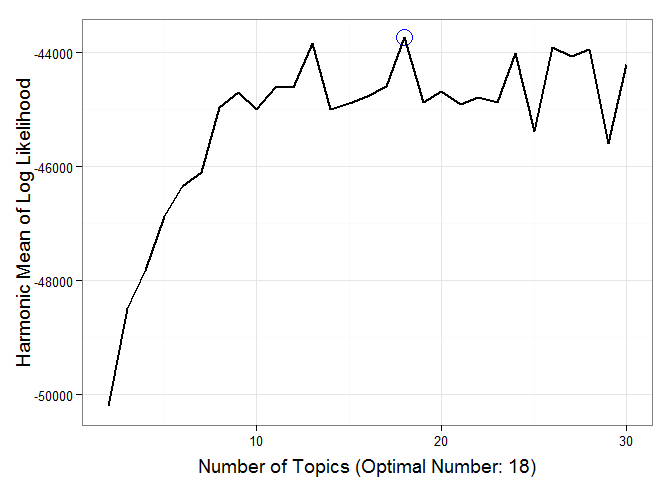
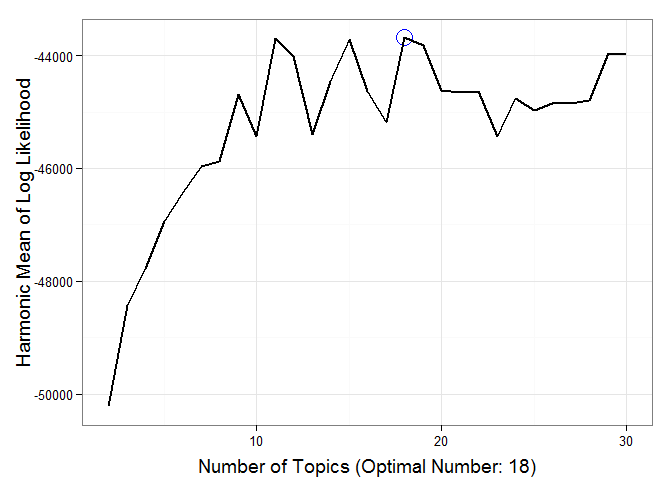
updated with updates to function

diff --git a/README.md b/README.md
@@ -352,7 +352,7 @@ The .R script for this demonstration can be downloaded from
     ))
 
     ## SHA-1 hash of file is 5ac52af21ce36dfe8f529b4fe77568ced9307cf0
-    ## SHA-1 hash of file is 81ded97c46b65cbbddd531ea9150088fccfc1b85
+    ## SHA-1 hash of file is df83e0293c60b009fdb06ac89a84af891c13bcb6
 
     data(presidential_debates_2012)
 
@@ -390,11 +390,11 @@ The plot below shows the harmonic mean of the log likelihoods against k
     k <- optimal_k(doc_term_mat, burnin = burnin, iter = iter, keep = keep)
 
     ## 
-    ## Grab a cup of coffee this is gonna take a while...
+    ## Grab a cup of coffee this could take a while...
 
-    ## 10 of 30 iterations (Time elapsed: .2 mins)
-    ## 20 of 30 iterations (Time elapsed: 1.1 mins)
-    ## 30 of 30 iterations (Time elapsed: 2.5 mins)
+    ## 10 of 30 iterations (Current: 11:21:01; Elapsed: .3 mins)
+    ## 20 of 30 iterations (Current: 11:21:51; Elapsed: 1.1 mins; Remaining: ~1.4 mins)
+    ## 30 of 30 iterations (Current: 11:23:13; Elapsed: 2.4 mins; Remaining: ~0 mins)
     ## Optimal number of topics = 18
 
     k
@@ -479,6 +479,7 @@ The plot below shows the harmonic mean of the log likelihoods against k
     set.seed(119)
     plot.igraph(graph, edge.width = E(graph)$edge.width, 
         vertex.color = adjustcolor(V(graph)$color, alpha.f = .4))
+    title("Topic/Document Relationships", cex.main=.8)
 
 ![](inst/figure/unnamed-chunk-11-1.png)
 
